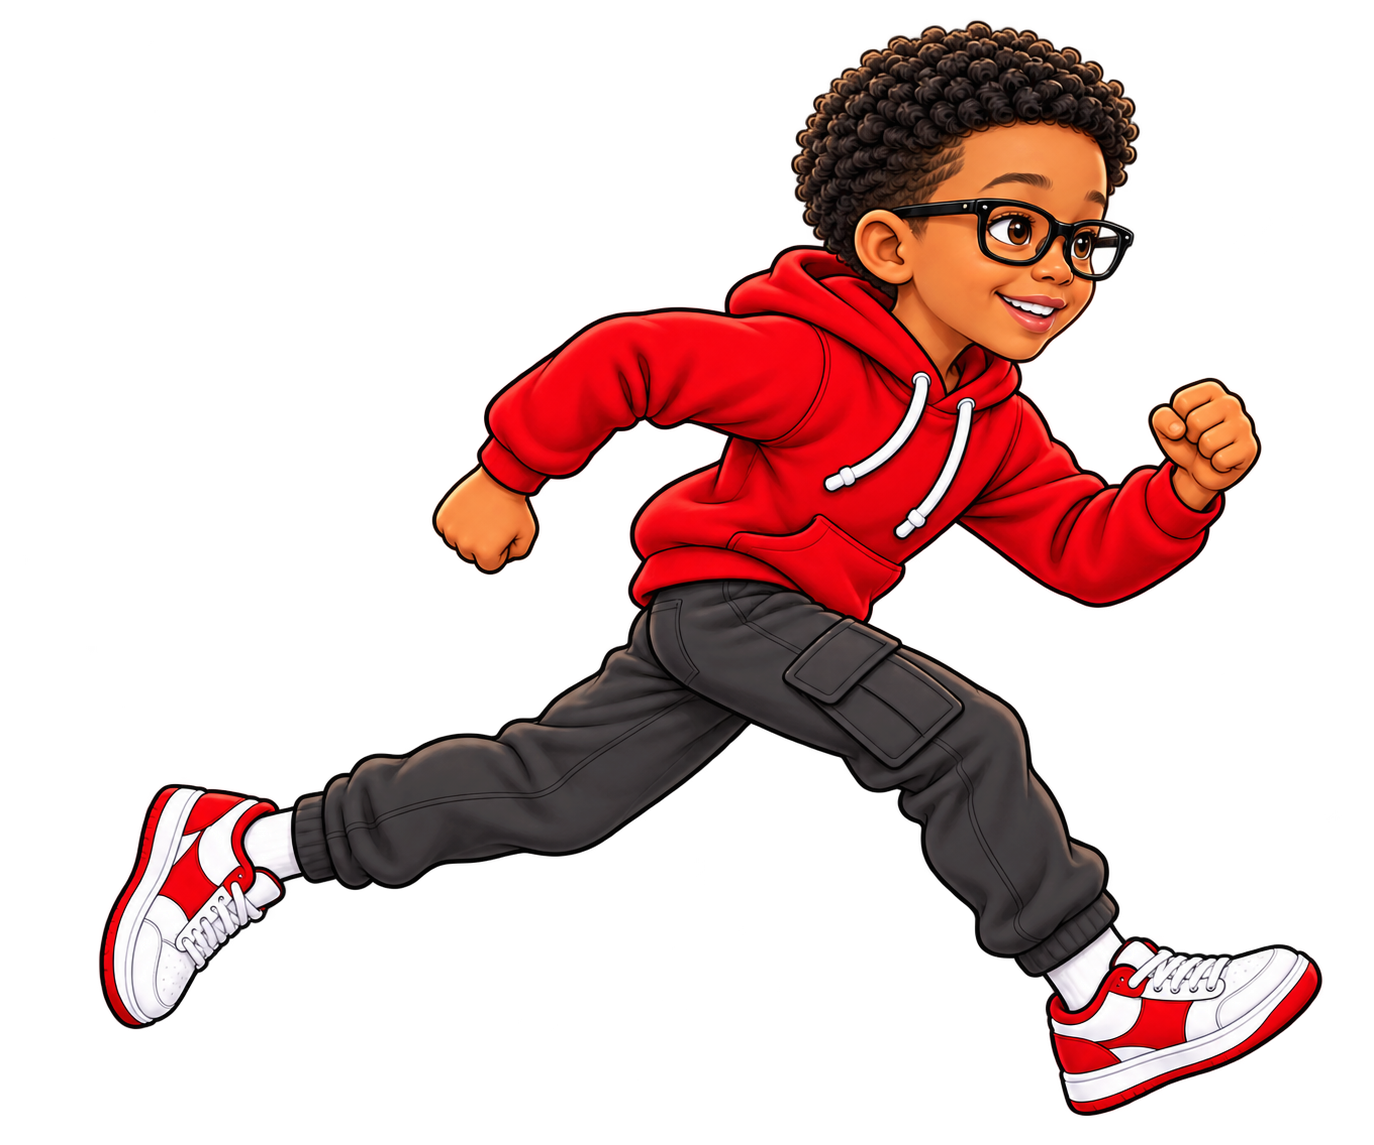
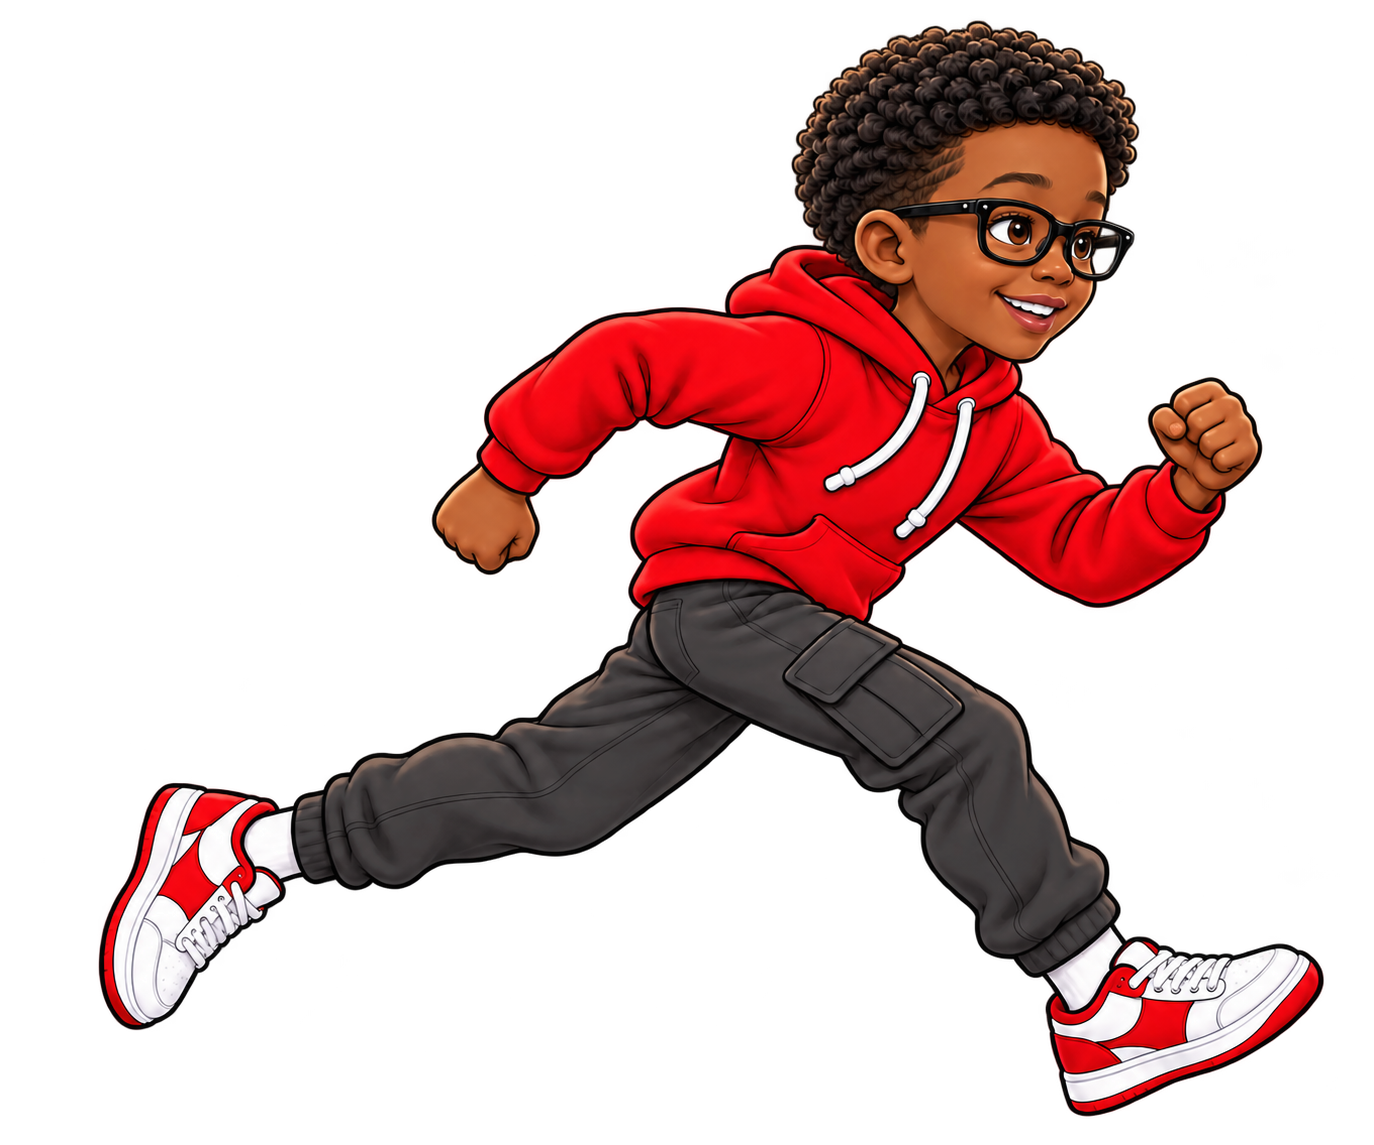
Refine home crew spacing and darken Zion artwork for v44.3

diff --git a/money-ops/src/runner.js b/money-ops/src/runner.js
@@ -5,7 +5,7 @@ export class FinancialRunner{
  constructor(canvas,config,{characterId='maya',ownedItems=[],intensityLevel=1,onUpdate=()=>{},onComplete=()=>{}}={}){
   this.canvas=canvas;this.ctx=canvas.getContext('2d');this.config=config;this.characterId=characterId;this.ownedItems=new Set(ownedItems);this.onUpdate=onUpdate;this.onComplete=onComplete;this.reduced=matchMedia('(prefers-reduced-motion: reduce)').matches;
   this.width=960;this.height=360;this.ground=292;this.entities=[];this.particles=[];this.popups=[];this.keys=new Set();this.running=false;this.paused=false;this.completed=false;this.last=0;this.intensityLevel=[0,1,1.5].includes(Number(intensityLevel))?Number(intensityLevel):1;this.speedMultiplier=this.intensityLevel===0?.68:this.intensityLevel;this.accelerates=this.intensityLevel!==0;this.spawnIn=1.55/this.speedMultiplier;this.rewardIn=.45/this.speedMultiplier;this.powerIn=11/this.speedMultiplier;this.boxIn=5/this.speedMultiplier;this.speed=155*config.difficulty*this.speedMultiplier;this.distance=0;this.lives=config.maxLives;this.coins=0;this.collected=0;this.bonusMoney=0;this.xp=0;this.score=0;this.avoided=0;this.combo=0;this.powerUpsUsed=0;this.invulnerable=0;this.companionShield=this.ownedItems.has('companion');this.activePower=null;this.state='idle';this.stateTime=0;this.vocabularyIndex=0;this.vocabularySeen=[];this.vocabEvent=null;this.vocabSerial=0;this.player={x:112,y:this.ground-124,w:82,h:124,vy:0,grounded:true,duck:false};
-  this.startedAt=0;this.endAt=0;this.lastHud=0;this.pendingStart=null;this.imageReady=false;this.imageFailed=false;this.image=new Image();this.image.onload=()=>{this.imageReady=true;if(this.pendingStart!==null){const pending=this.pendingStart;this.pendingStart=null;this.start(pending);}};this.image.onerror=()=>{this.imageFailed=true;if(this.pendingStart!==null){const pending=this.pendingStart;this.pendingStart=null;this.start(pending);}};this.image.src=new URL(`../assets/runner/${characterId}-right.png?v=44.2`,import.meta.url).href;this.imageReady=Boolean(this.image.complete&&this.image.naturalWidth);this.boundFrame=time=>this.frame(time);this.boundKeyDown=event=>this.keyDown(event);this.boundKeyUp=event=>this.keyUp(event);this.boundBlur=()=>this.setPaused(true);this.pointerStart=null;
+  this.startedAt=0;this.endAt=0;this.lastHud=0;this.pendingStart=null;this.imageReady=false;this.imageFailed=false;this.image=new Image();this.image.onload=()=>{this.imageReady=true;if(this.pendingStart!==null){const pending=this.pendingStart;this.pendingStart=null;this.start(pending);}};this.image.onerror=()=>{this.imageFailed=true;if(this.pendingStart!==null){const pending=this.pendingStart;this.pendingStart=null;this.start(pending);}};this.image.src=new URL(`../assets/runner/${characterId}-right.png?v=44.3`,import.meta.url).href;this.imageReady=Boolean(this.image.complete&&this.image.naturalWidth);this.boundFrame=time=>this.frame(time);this.boundKeyDown=event=>this.keyDown(event);this.boundKeyUp=event=>this.keyUp(event);this.boundBlur=()=>this.setPaused(true);this.pointerStart=null;
   const ratio=Math.min(2,window.devicePixelRatio||1);canvas.width=this.width*ratio;canvas.height=this.height*ratio;this.ctx.setTransform(ratio,0,0,ratio,0,0);canvas.style.aspectRatio=`${this.width}/${this.height}`;
   canvas.addEventListener('pointerdown',event=>{this.pointerStart={x:event.clientX,y:event.clientY,time:Date.now()};});
   canvas.addEventListener('pointerup',event=>{const start=this.pointerStart;if(!start)return;const dy=event.clientY-start.y;if(dy>38)this.duck(.65);else this.jump();this.pointerStart=null;});

diff --git a/src/runner.js b/src/runner.js
@@ -5,7 +5,7 @@ export class FinancialRunner{
  constructor(canvas,config,{characterId='maya',ownedItems=[],intensityLevel=1,onUpdate=()=>{},onComplete=()=>{}}={}){
   this.canvas=canvas;this.ctx=canvas.getContext('2d');this.config=config;this.characterId=characterId;this.ownedItems=new Set(ownedItems);this.onUpdate=onUpdate;this.onComplete=onComplete;this.reduced=matchMedia('(prefers-reduced-motion: reduce)').matches;
   this.width=960;this.height=360;this.ground=292;this.entities=[];this.particles=[];this.popups=[];this.keys=new Set();this.running=false;this.paused=false;this.completed=false;this.last=0;this.intensityLevel=[0,1,1.5].includes(Number(intensityLevel))?Number(intensityLevel):1;this.speedMultiplier=this.intensityLevel===0?.68:this.intensityLevel;this.accelerates=this.intensityLevel!==0;this.spawnIn=1.55/this.speedMultiplier;this.rewardIn=.45/this.speedMultiplier;this.powerIn=11/this.speedMultiplier;this.boxIn=5/this.speedMultiplier;this.speed=155*config.difficulty*this.speedMultiplier;this.distance=0;this.lives=config.maxLives;this.coins=0;this.collected=0;this.bonusMoney=0;this.xp=0;this.score=0;this.avoided=0;this.combo=0;this.powerUpsUsed=0;this.invulnerable=0;this.companionShield=this.ownedItems.has('companion');this.activePower=null;this.state='idle';this.stateTime=0;this.vocabularyIndex=0;this.vocabularySeen=[];this.vocabEvent=null;this.vocabSerial=0;this.player={x:112,y:this.ground-124,w:82,h:124,vy:0,grounded:true,duck:false};
-  this.startedAt=0;this.endAt=0;this.lastHud=0;this.pendingStart=null;this.imageReady=false;this.imageFailed=false;this.image=new Image();this.image.onload=()=>{this.imageReady=true;if(this.pendingStart!==null){const pending=this.pendingStart;this.pendingStart=null;this.start(pending);}};this.image.onerror=()=>{this.imageFailed=true;if(this.pendingStart!==null){const pending=this.pendingStart;this.pendingStart=null;this.start(pending);}};this.image.src=new URL(`../assets/runner/${characterId}-right.png?v=44.2`,import.meta.url).href;this.imageReady=Boolean(this.image.complete&&this.image.naturalWidth);this.boundFrame=time=>this.frame(time);this.boundKeyDown=event=>this.keyDown(event);this.boundKeyUp=event=>this.keyUp(event);this.boundBlur=()=>this.setPaused(true);this.pointerStart=null;
+  this.startedAt=0;this.endAt=0;this.lastHud=0;this.pendingStart=null;this.imageReady=false;this.imageFailed=false;this.image=new Image();this.image.onload=()=>{this.imageReady=true;if(this.pendingStart!==null){const pending=this.pendingStart;this.pendingStart=null;this.start(pending);}};this.image.onerror=()=>{this.imageFailed=true;if(this.pendingStart!==null){const pending=this.pendingStart;this.pendingStart=null;this.start(pending);}};this.image.src=new URL(`../assets/runner/${characterId}-right.png?v=44.3`,import.meta.url).href;this.imageReady=Boolean(this.image.complete&&this.image.naturalWidth);this.boundFrame=time=>this.frame(time);this.boundKeyDown=event=>this.keyDown(event);this.boundKeyUp=event=>this.keyUp(event);this.boundBlur=()=>this.setPaused(true);this.pointerStart=null;
   const ratio=Math.min(2,window.devicePixelRatio||1);canvas.width=this.width*ratio;canvas.height=this.height*ratio;this.ctx.setTransform(ratio,0,0,ratio,0,0);canvas.style.aspectRatio=`${this.width}/${this.height}`;
   canvas.addEventListener('pointerdown',event=>{this.pointerStart={x:event.clientX,y:event.clientY,time:Date.now()};});
   canvas.addEventListener('pointerup',event=>{const start=this.pointerStart;if(!start)return;const dy=event.clientY-start.y;if(dy>38)this.duck(.65);else this.jump();this.pointerStart=null;});

diff --git a/money-ops/style.css b/money-ops/style.css
@@ -1155,10 +1155,10 @@ button.world-buddy.cheer:after{
 .city-crew-copy p{position:relative;grid-column:2;grid-row:1/3;margin:0;padding:18px 20px;border:4px solid #102d55;border-radius:22px;background:#fffbea;color:#16395a;font-size:clamp(14px,1.6vw,19px);font-weight:750;line-height:1.35;box-shadow:8px 9px 0 #102d55}
 .city-crew-copy p:after{content:'';position:absolute;left:30%;bottom:-22px;width:30px;height:30px;border-right:4px solid #102d55;border-bottom:4px solid #102d55;background:#fffbea;transform:rotate(45deg)}
 .city-crew-copy p b{display:block;margin-bottom:4px;color:#c55123;font:950 13px var(--mono);letter-spacing:.06em}
-.my-city-crew .city-cast{position:absolute;z-index:3;inset:clamp(176px,18vw,215px) 2% 5%;align-items:end;gap:clamp(2px,1vw,16px)}
+.my-city-crew .city-cast{position:absolute;z-index:3;inset:clamp(176px,18vw,215px) 2% 5%;align-items:end;gap:clamp(12px,2vw,28px)}
 .my-city-crew .city-cast{width:auto;padding-inline:clamp(5px,1vw,12px)}
 .my-city-crew .city-cast .cast-member{height:auto;align-self:end;padding-bottom:30px}
-.my-city-crew .city-cast .character-portrait{width:auto;max-width:none;height:clamp(102px,28vw,360px);max-height:none;object-fit:contain;object-position:center bottom;justify-self:center;filter:drop-shadow(0 13px 8px #153f4770);animation:cityCrewArrive .7s cubic-bezier(.2,.85,.3,1.25) both}
+.my-city-crew .city-cast .character-portrait{width:100%;max-width:100%;height:clamp(102px,18vw,240px);max-height:none;object-fit:contain;object-position:center bottom;justify-self:center;filter:drop-shadow(0 13px 8px #153f4770);animation:cityCrewArrive .7s cubic-bezier(.2,.85,.3,1.25) both}
 .my-city-crew .city-cast .cast-member:nth-child(2) .character-portrait{animation-delay:.08s}
 .my-city-crew .city-cast .cast-member:nth-child(3) .character-portrait{animation-delay:.16s}
 .my-city-crew .city-cast .cast-member:nth-child(4) .character-portrait{animation-delay:.24s}
@@ -2004,7 +2004,7 @@ button.world-buddy.cheer:after{
  .city-crew-copy h1{margin:4px auto 14px;font-size:clamp(48px,14vw,70px)}
  .city-crew-copy p{max-width:470px;margin:auto;padding:12px 15px;font-size:15px}
  .city-crew-copy p:after{left:48%}
- .my-city-crew .city-cast{inset:230px 1% 6%;gap:0}
+ .my-city-crew .city-cast{inset:230px 1% 6%;gap:clamp(10px,2vw,16px)}
  .my-city-crew .city-cast .cast-member{padding-bottom:28px}
  .my-city-crew .city-cast .cast-member>b{padding:5px 6px;font-size:8px}
  .city-sun{top:28%;width:80px;height:80px}
@@ -2016,7 +2016,7 @@ button.world-buddy.cheer:after{
  .city-crew-copy>span{font-size:11px}
  .city-crew-copy h1{font-size:46px}
  .city-crew-copy p{font-size:13px}
- .my-city-crew .city-cast{inset:375px 0 5%;grid-template-columns:repeat(3,1fr);align-content:end}
+ .my-city-crew .city-cast{inset:375px 2% 5%;grid-template-columns:repeat(3,minmax(0,1fr));align-content:end;gap:18px 16px}
  .my-city-crew .city-cast .cast-member{height:128px;padding-bottom:20px}
  .my-city-crew .city-cast .character-portrait{height:118px}
  .my-city-crew .city-cast .cast-member>b{bottom:0;font-size:7px!important}

diff --git a/style.css b/style.css
@@ -1155,10 +1155,10 @@ button.world-buddy.cheer:after{
 .city-crew-copy p{position:relative;grid-column:2;grid-row:1/3;margin:0;padding:18px 20px;border:4px solid #102d55;border-radius:22px;background:#fffbea;color:#16395a;font-size:clamp(14px,1.6vw,19px);font-weight:750;line-height:1.35;box-shadow:8px 9px 0 #102d55}
 .city-crew-copy p:after{content:'';position:absolute;left:30%;bottom:-22px;width:30px;height:30px;border-right:4px solid #102d55;border-bottom:4px solid #102d55;background:#fffbea;transform:rotate(45deg)}
 .city-crew-copy p b{display:block;margin-bottom:4px;color:#c55123;font:950 13px var(--mono);letter-spacing:.06em}
-.my-city-crew .city-cast{position:absolute;z-index:3;inset:clamp(176px,18vw,215px) 2% 5%;align-items:end;gap:clamp(2px,1vw,16px)}
+.my-city-crew .city-cast{position:absolute;z-index:3;inset:clamp(176px,18vw,215px) 2% 5%;align-items:end;gap:clamp(12px,2vw,28px)}
 .my-city-crew .city-cast{width:auto;padding-inline:clamp(5px,1vw,12px)}
 .my-city-crew .city-cast .cast-member{height:auto;align-self:end;padding-bottom:30px}
-.my-city-crew .city-cast .character-portrait{width:auto;max-width:none;height:clamp(102px,28vw,360px);max-height:none;object-fit:contain;object-position:center bottom;justify-self:center;filter:drop-shadow(0 13px 8px #153f4770);animation:cityCrewArrive .7s cubic-bezier(.2,.85,.3,1.25) both}
+.my-city-crew .city-cast .character-portrait{width:100%;max-width:100%;height:clamp(102px,18vw,240px);max-height:none;object-fit:contain;object-position:center bottom;justify-self:center;filter:drop-shadow(0 13px 8px #153f4770);animation:cityCrewArrive .7s cubic-bezier(.2,.85,.3,1.25) both}
 .my-city-crew .city-cast .cast-member:nth-child(2) .character-portrait{animation-delay:.08s}
 .my-city-crew .city-cast .cast-member:nth-child(3) .character-portrait{animation-delay:.16s}
 .my-city-crew .city-cast .cast-member:nth-child(4) .character-portrait{animation-delay:.24s}
@@ -2004,7 +2004,7 @@ button.world-buddy.cheer:after{
  .city-crew-copy h1{margin:4px auto 14px;font-size:clamp(48px,14vw,70px)}
  .city-crew-copy p{max-width:470px;margin:auto;padding:12px 15px;font-size:15px}
  .city-crew-copy p:after{left:48%}
- .my-city-crew .city-cast{inset:230px 1% 6%;gap:0}
+ .my-city-crew .city-cast{inset:230px 1% 6%;gap:clamp(10px,2vw,16px)}
  .my-city-crew .city-cast .cast-member{padding-bottom:28px}
  .my-city-crew .city-cast .cast-member>b{padding:5px 6px;font-size:8px}
  .city-sun{top:28%;width:80px;height:80px}
@@ -2016,7 +2016,7 @@ button.world-buddy.cheer:after{
  .city-crew-copy>span{font-size:11px}
  .city-crew-copy h1{font-size:46px}
  .city-crew-copy p{font-size:13px}
- .my-city-crew .city-cast{inset:375px 0 5%;grid-template-columns:repeat(3,1fr);align-content:end}
+ .my-city-crew .city-cast{inset:375px 2% 5%;grid-template-columns:repeat(3,minmax(0,1fr));align-content:end;gap:18px 16px}
  .my-city-crew .city-cast .cast-member{height:128px;padding-bottom:20px}
  .my-city-crew .city-cast .character-portrait{height:118px}
  .my-city-crew .city-cast .cast-member>b{bottom:0;font-size:7px!important}

diff --git a/money-ops/src/app.js b/money-ops/src/app.js
@@ -16,7 +16,7 @@ const money=n=>new Intl.NumberFormat('en-US',{style:'currency',currency:'USD',ma
 const escape=s=>String(s).replace(/[&<>"']/g,c=>({'&':'&amp;','<':'&lt;','>':'&gt;','"':'&quot;',"'":'&#39;'}[c]));
 const button=(text,action,cls='',extra='')=>`<button class="${cls}" data-action="${action}" ${extra}>${text}</button>`;
 function progress(){const next=nextRank(p.xp);const current=ranks.filter(r=>p.xp>=r[1]).at(-1);const pct=next?Math.min(100,(p.xp-current[1])/(next[1]-current[1])*100):100;return `<div class="xp-row"><span>${p.xp} XP</span><span>${next?`${next[1]-p.xp} TO ${next[0].toUpperCase()}`:'TOP RANK'}</span></div><div class="bar" role="progressbar" aria-label="Rank progress" aria-valuenow="${Math.round(pct)}" aria-valuemin="0" aria-valuemax="100"><i style="width:${pct}%"></i></div>`;}
-function header(){const arcade=p.mode==='arcade';return `<header><a class="brand" href="./" aria-label="Money Ops home"><span class="brand-mark">M<span>↗</span></span><span><small>FINANCIAL FREEDOM</small><b>MONEY OPS<span class="version"> / 44.2</span></b></span></a><div class="header-right"><span class="system ${arcade?'arcade-unsaved':''}"><i></i> ${arcade?'ARCADE MODE · NOT SAVED':'CAREER SAVED'}</span>${button(arcade?'ARCADE LEVELS':'PLAY ARCADE','arcade-open-header','arcade-nav-button')}${button(p.muted?'SOUND OFF':'SOUND ON','mute','utility',`aria-pressed="${!p.muted}" aria-label="${p.muted?'Enable':'Mute'} sound"`)}</div></header>`;}
+function header(){const arcade=p.mode==='arcade';return `<header><a class="brand" href="./" aria-label="Money Ops home"><span class="brand-mark">M<span>↗</span></span><span><small>FINANCIAL FREEDOM</small><b>MONEY OPS<span class="version"> / 44.3</span></b></span></a><div class="header-right"><span class="system ${arcade?'arcade-unsaved':''}"><i></i> ${arcade?'ARCADE MODE · NOT SAVED':'CAREER SAVED'}</span>${button(arcade?'ARCADE LEVELS':'PLAY ARCADE','arcade-open-header','arcade-nav-button')}${button(p.muted?'SOUND OFF':'SOUND ON','mute','utility',`aria-pressed="${!p.muted}" aria-label="${p.muted?'Enable':'Mute'} sound"`)}</div></header>`;}
 function playerPortrait(className='',id=p.avatar){return characters[id]?portrait(id,className):`<span class="avatar">${escape(id)}</span>`;}
 function runnerCharacterId(session=p?.runnerSession){if(p?.mode==='arcade')return p.avatar;const lesson=Math.max(1,Number(session?.lessonId)||1),offset=session?.phase==='post'?1:0;return castIds[(lesson-1+offset)%castIds.length];}
 const bonusItems=[{id:'boots',name:'BOOST BOOTS',price:5,icon:'⇧',detail:'Jump higher.'},{id:'magnet',name:'COIN MAGNET',price:10,icon:'◎',detail:'Pull coins closer.'},{id:'companion',name:'PENNY THE MONEY DRAGON',price:15,icon:'🐲',detail:'Your original Money Ops sidekick blocks one hit.'}];

diff --git a/src/app.js b/src/app.js
@@ -16,7 +16,7 @@ const money=n=>new Intl.NumberFormat('en-US',{style:'currency',currency:'USD',ma
 const escape=s=>String(s).replace(/[&<>"']/g,c=>({'&':'&amp;','<':'&lt;','>':'&gt;','"':'&quot;',"'":'&#39;'}[c]));
 const button=(text,action,cls='',extra='')=>`<button class="${cls}" data-action="${action}" ${extra}>${text}</button>`;
 function progress(){const next=nextRank(p.xp);const current=ranks.filter(r=>p.xp>=r[1]).at(-1);const pct=next?Math.min(100,(p.xp-current[1])/(next[1]-current[1])*100):100;return `<div class="xp-row"><span>${p.xp} XP</span><span>${next?`${next[1]-p.xp} TO ${next[0].toUpperCase()}`:'TOP RANK'}</span></div><div class="bar" role="progressbar" aria-label="Rank progress" aria-valuenow="${Math.round(pct)}" aria-valuemin="0" aria-valuemax="100"><i style="width:${pct}%"></i></div>`;}
-function header(){const arcade=p.mode==='arcade';return `<header><a class="brand" href="./" aria-label="Money Ops home"><span class="brand-mark">M<span>↗</span></span><span><small>FINANCIAL FREEDOM</small><b>MONEY OPS<span class="version"> / 44.2</span></b></span></a><div class="header-right"><span class="system ${arcade?'arcade-unsaved':''}"><i></i> ${arcade?'ARCADE MODE · NOT SAVED':'CAREER SAVED'}</span>${button(arcade?'ARCADE LEVELS':'PLAY ARCADE','arcade-open-header','arcade-nav-button')}${button(p.muted?'SOUND OFF':'SOUND ON','mute','utility',`aria-pressed="${!p.muted}" aria-label="${p.muted?'Enable':'Mute'} sound"`)}</div></header>`;}
+function header(){const arcade=p.mode==='arcade';return `<header><a class="brand" href="./" aria-label="Money Ops home"><span class="brand-mark">M<span>↗</span></span><span><small>FINANCIAL FREEDOM</small><b>MONEY OPS<span class="version"> / 44.3</span></b></span></a><div class="header-right"><span class="system ${arcade?'arcade-unsaved':''}"><i></i> ${arcade?'ARCADE MODE · NOT SAVED':'CAREER SAVED'}</span>${button(arcade?'ARCADE LEVELS':'PLAY ARCADE','arcade-open-header','arcade-nav-button')}${button(p.muted?'SOUND OFF':'SOUND ON','mute','utility',`aria-pressed="${!p.muted}" aria-label="${p.muted?'Enable':'Mute'} sound"`)}</div></header>`;}
 function playerPortrait(className='',id=p.avatar){return characters[id]?portrait(id,className):`<span class="avatar">${escape(id)}</span>`;}
 function runnerCharacterId(session=p?.runnerSession){if(p?.mode==='arcade')return p.avatar;const lesson=Math.max(1,Number(session?.lessonId)||1),offset=session?.phase==='post'?1:0;return castIds[(lesson-1+offset)%castIds.length];}
 const bonusItems=[{id:'boots',name:'BOOST BOOTS',price:5,icon:'⇧',detail:'Jump higher.'},{id:'magnet',name:'COIN MAGNET',price:10,icon:'◎',detail:'Pull coins closer.'},{id:'companion',name:'PENNY THE MONEY DRAGON',price:15,icon:'🐲',detail:'Your original Money Ops sidekick blocks one hit.'}];

diff --git a/index.html b/index.html
@@ -1,2 +1,2 @@
 <!doctype html>
-<html lang="en"><head><meta charset="utf-8"><meta name="viewport" content="width=device-width,initial-scale=1"><meta name="theme-color" content="#101816"><link rel="icon" type="image/svg+xml" href="favicon.svg"><title>Financial Freedom: Money Ops — The Financial Runner</title><link rel="stylesheet" href="style.css?v=44.2"></head><body><a class="skip" href="#main">Skip to game</a><div id="app"></div><div id="announcer" class="sr" role="status" aria-live="polite"></div><script type="module" src="src/app.js?v=44.2"></script></body></html>
+<html lang="en"><head><meta charset="utf-8"><meta name="viewport" content="width=device-width,initial-scale=1"><meta name="theme-color" content="#101816"><link rel="icon" type="image/svg+xml" href="favicon.svg"><title>Financial Freedom: Money Ops — The Financial Runner</title><link rel="stylesheet" href="style.css?v=44.3"></head><body><a class="skip" href="#main">Skip to game</a><div id="app"></div><div id="announcer" class="sr" role="status" aria-live="polite"></div><script type="module" src="src/app.js?v=44.3"></script></body></html>

diff --git a/money-ops/index.html b/money-ops/index.html
@@ -1,2 +1,2 @@
 <!doctype html>
-<html lang="en"><head><meta charset="utf-8"><meta name="viewport" content="width=device-width,initial-scale=1"><meta name="theme-color" content="#101816"><link rel="icon" type="image/svg+xml" href="favicon.svg"><title>Financial Freedom: Money Ops — The Financial Runner</title><link rel="stylesheet" href="style.css?v=44.2"></head><body><a class="skip" href="#main">Skip to game</a><div id="app"></div><div id="announcer" class="sr" role="status" aria-live="polite"></div><script type="module" src="src/app.js?v=44.2"></script></body></html>
+<html lang="en"><head><meta charset="utf-8"><meta name="viewport" content="width=device-width,initial-scale=1"><meta name="theme-color" content="#101816"><link rel="icon" type="image/svg+xml" href="favicon.svg"><title>Financial Freedom: Money Ops — The Financial Runner</title><link rel="stylesheet" href="style.css?v=44.3"></head><body><a class="skip" href="#main">Skip to game</a><div id="app"></div><div id="announcer" class="sr" role="status" aria-live="polite"></div><script type="module" src="src/app.js?v=44.3"></script></body></html>

diff --git a/money-ops/src/characters.js b/money-ops/src/characters.js
@@ -13,7 +13,7 @@ export const character=id=>characters[id]||characters.maya;
 
 export function portrait(id,className=''){
  const c=character(id);
- return `<img class="character-portrait ${className}" src="assets/cast/${c.image}?v=44.2" alt="${c.name}, ${c.role}">`;
+ return `<img class="character-portrait ${className}" src="assets/cast/${c.image}?v=44.3" alt="${c.name}, ${c.role}">`;
 }
 
 export function castPortraits(className='',ids=castIds){

diff --git a/src/characters.js b/src/characters.js
@@ -13,7 +13,7 @@ export const character=id=>characters[id]||characters.maya;
 
 export function portrait(id,className=''){
  const c=character(id);
- return `<img class="character-portrait ${className}" src="assets/cast/${c.image}?v=44.2" alt="${c.name}, ${c.role}">`;
+ return `<img class="character-portrait ${className}" src="assets/cast/${c.image}?v=44.3" alt="${c.name}, ${c.role}">`;
 }
 
 export function castPortraits(className='',ids=castIds){
